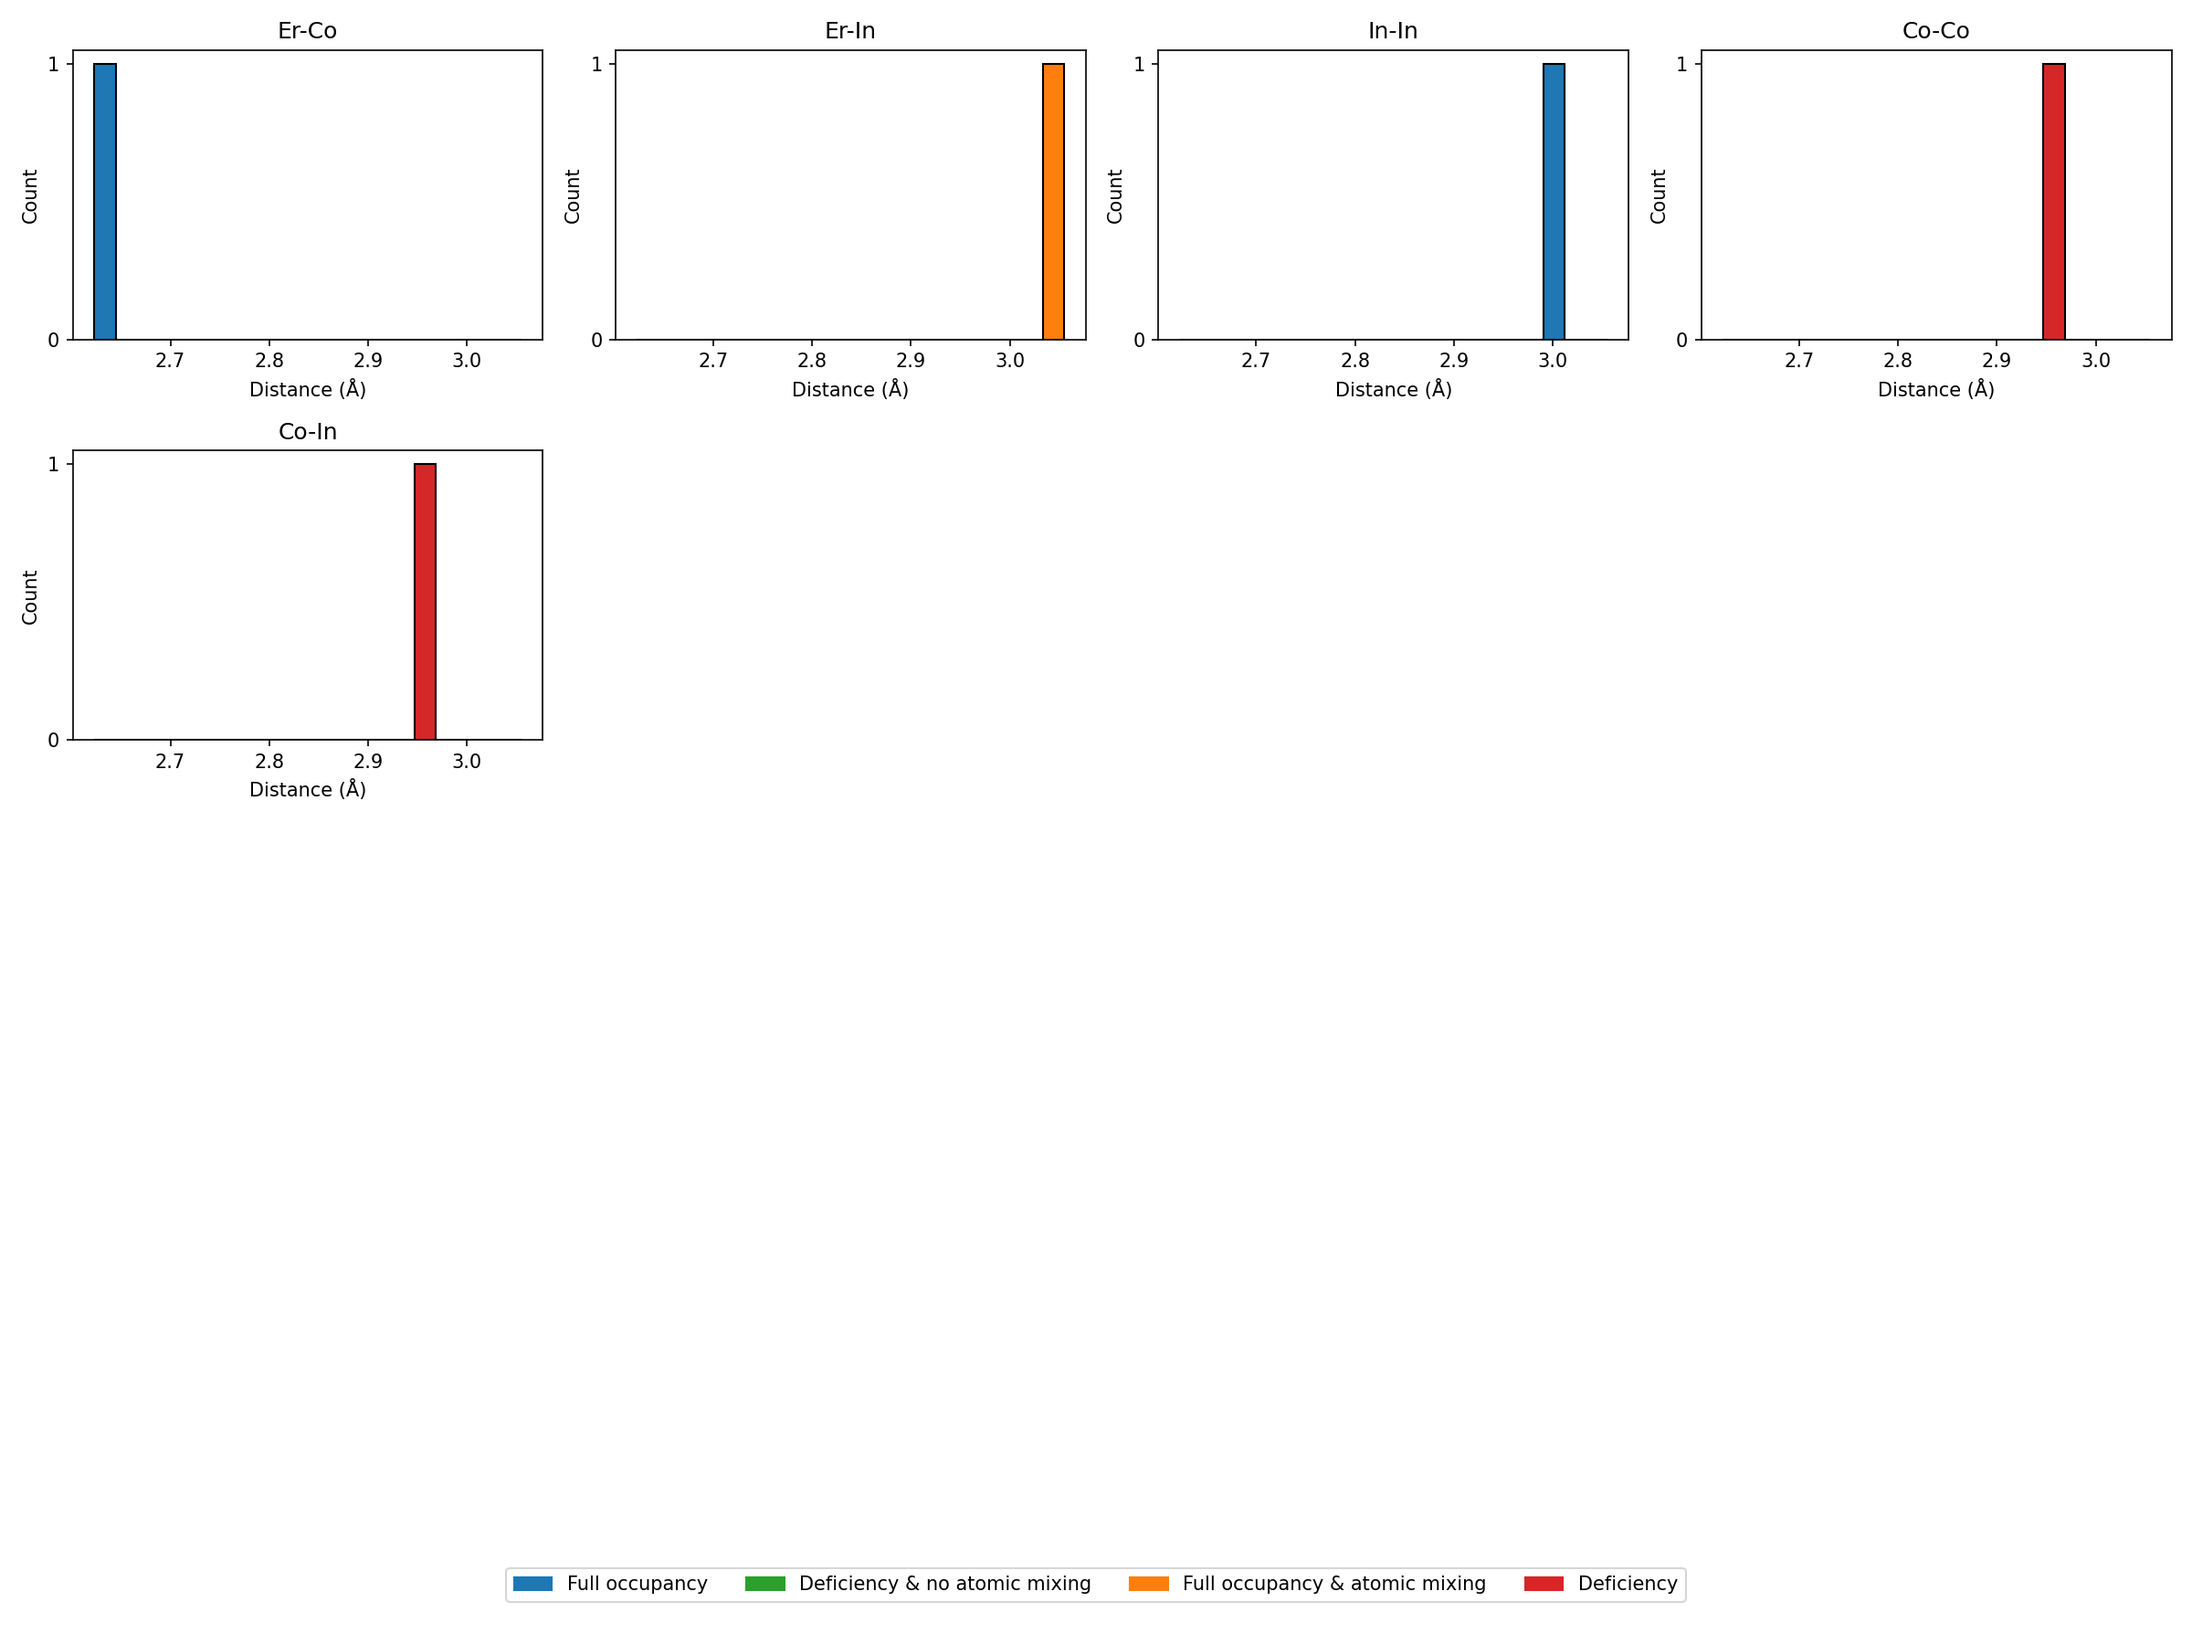
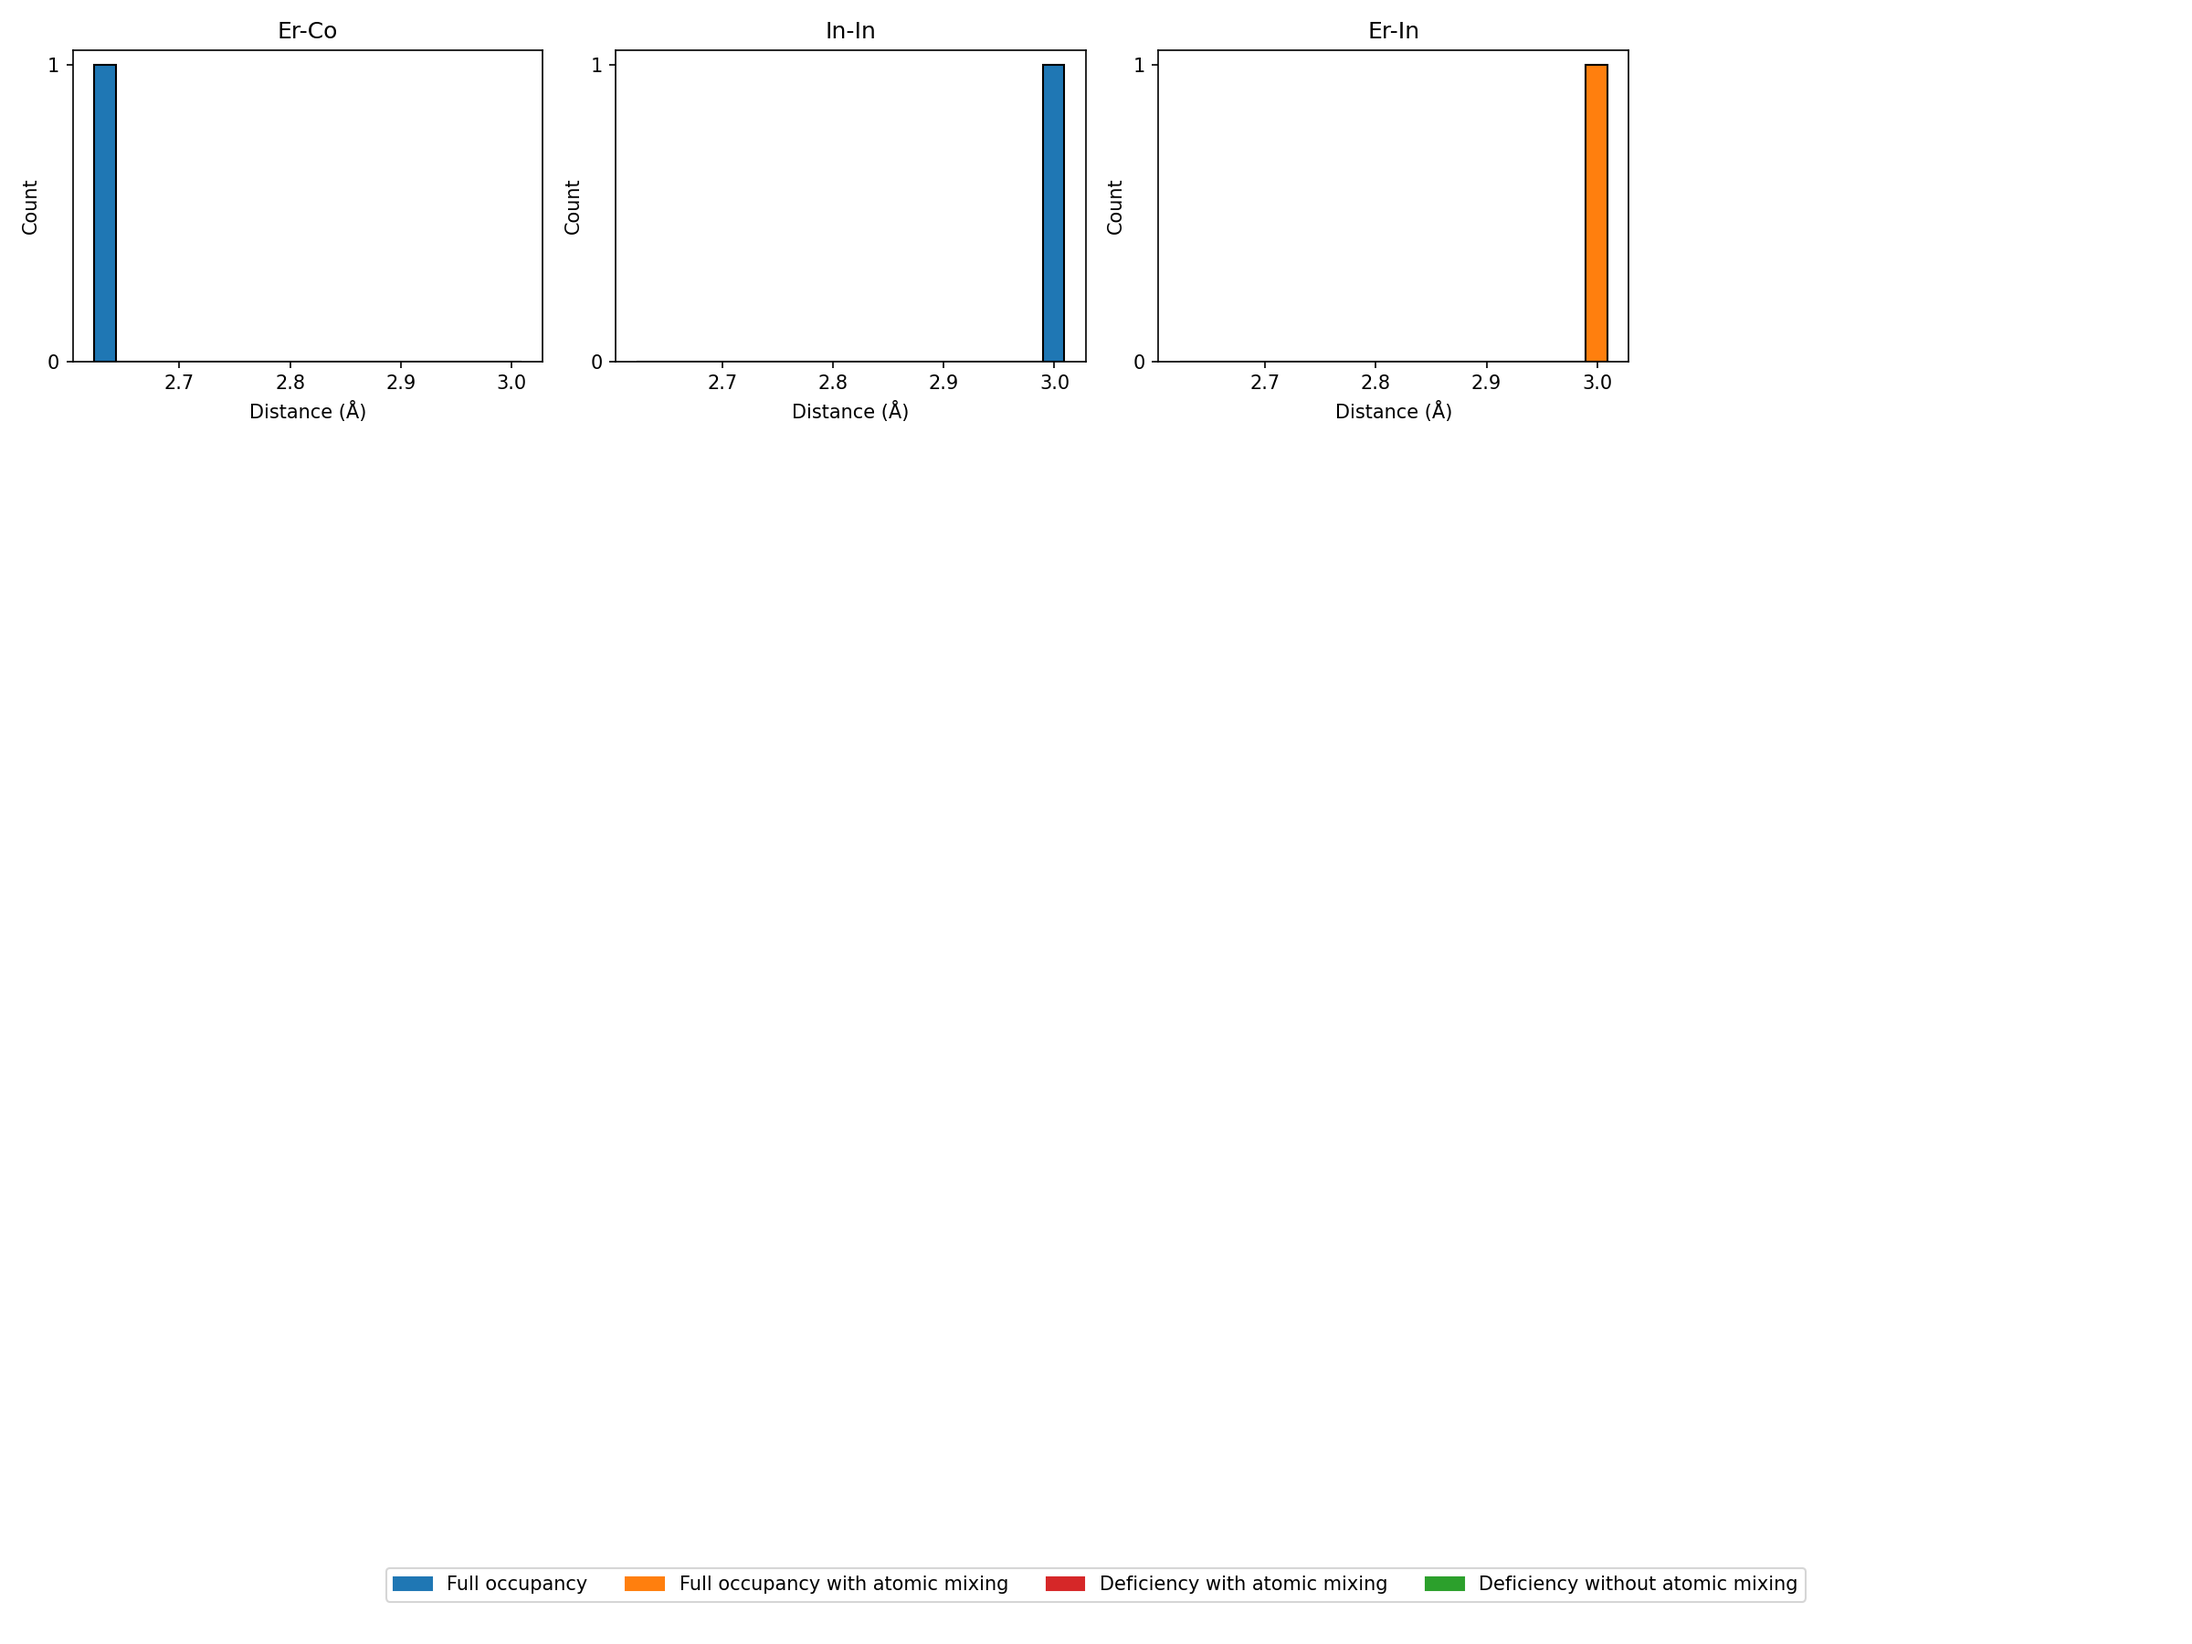
Fixed order for the legends

diff --git a/postprocess/histogram.py b/postprocess/histogram.py
@@ -45,12 +45,11 @@ def plot_histograms(data, directory_path, output_filename):
     categories_colors, categories_mapping = get_colors_category_mappings()
     histograms_per_image, max_columns = get_histogram_config()
 
-    ordered_keys = sorted(categories_colors.keys(), reverse=True)
-    legend_handles = [
-        plt.Rectangle((0, 0), 1, 1, color=categories_colors[cat])
-        for cat in ordered_keys
-    ]
+    # Specify the desired order for legend
+    ordered_keys = ["4", "2", "1", "3"]
+    legend_handles = [plt.Rectangle((0, 0), 1, 1, color=categories_colors[cat]) for cat in ordered_keys]
     legend_labels = [categories_mapping[cat] for cat in ordered_keys]
+
 
     num_pairs = len(data)
     total_images = np.ceil(num_pairs / histograms_per_image).astype(int)
